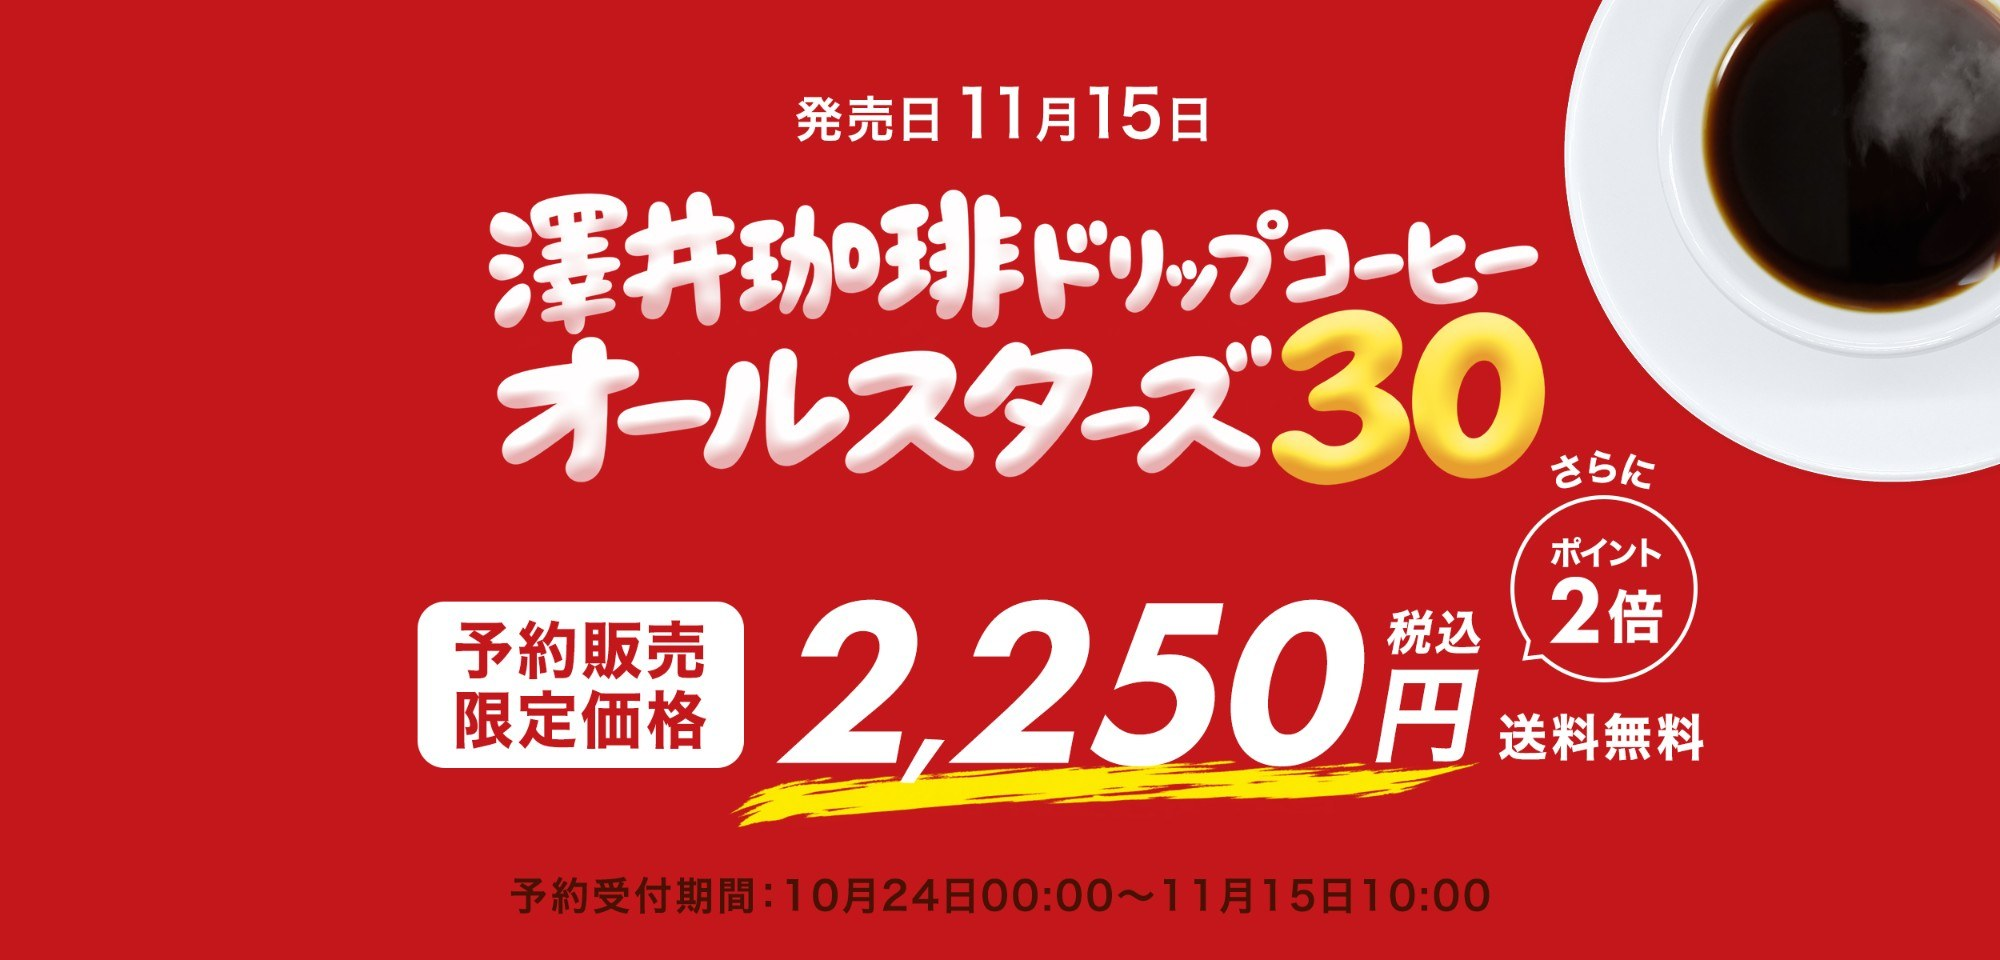
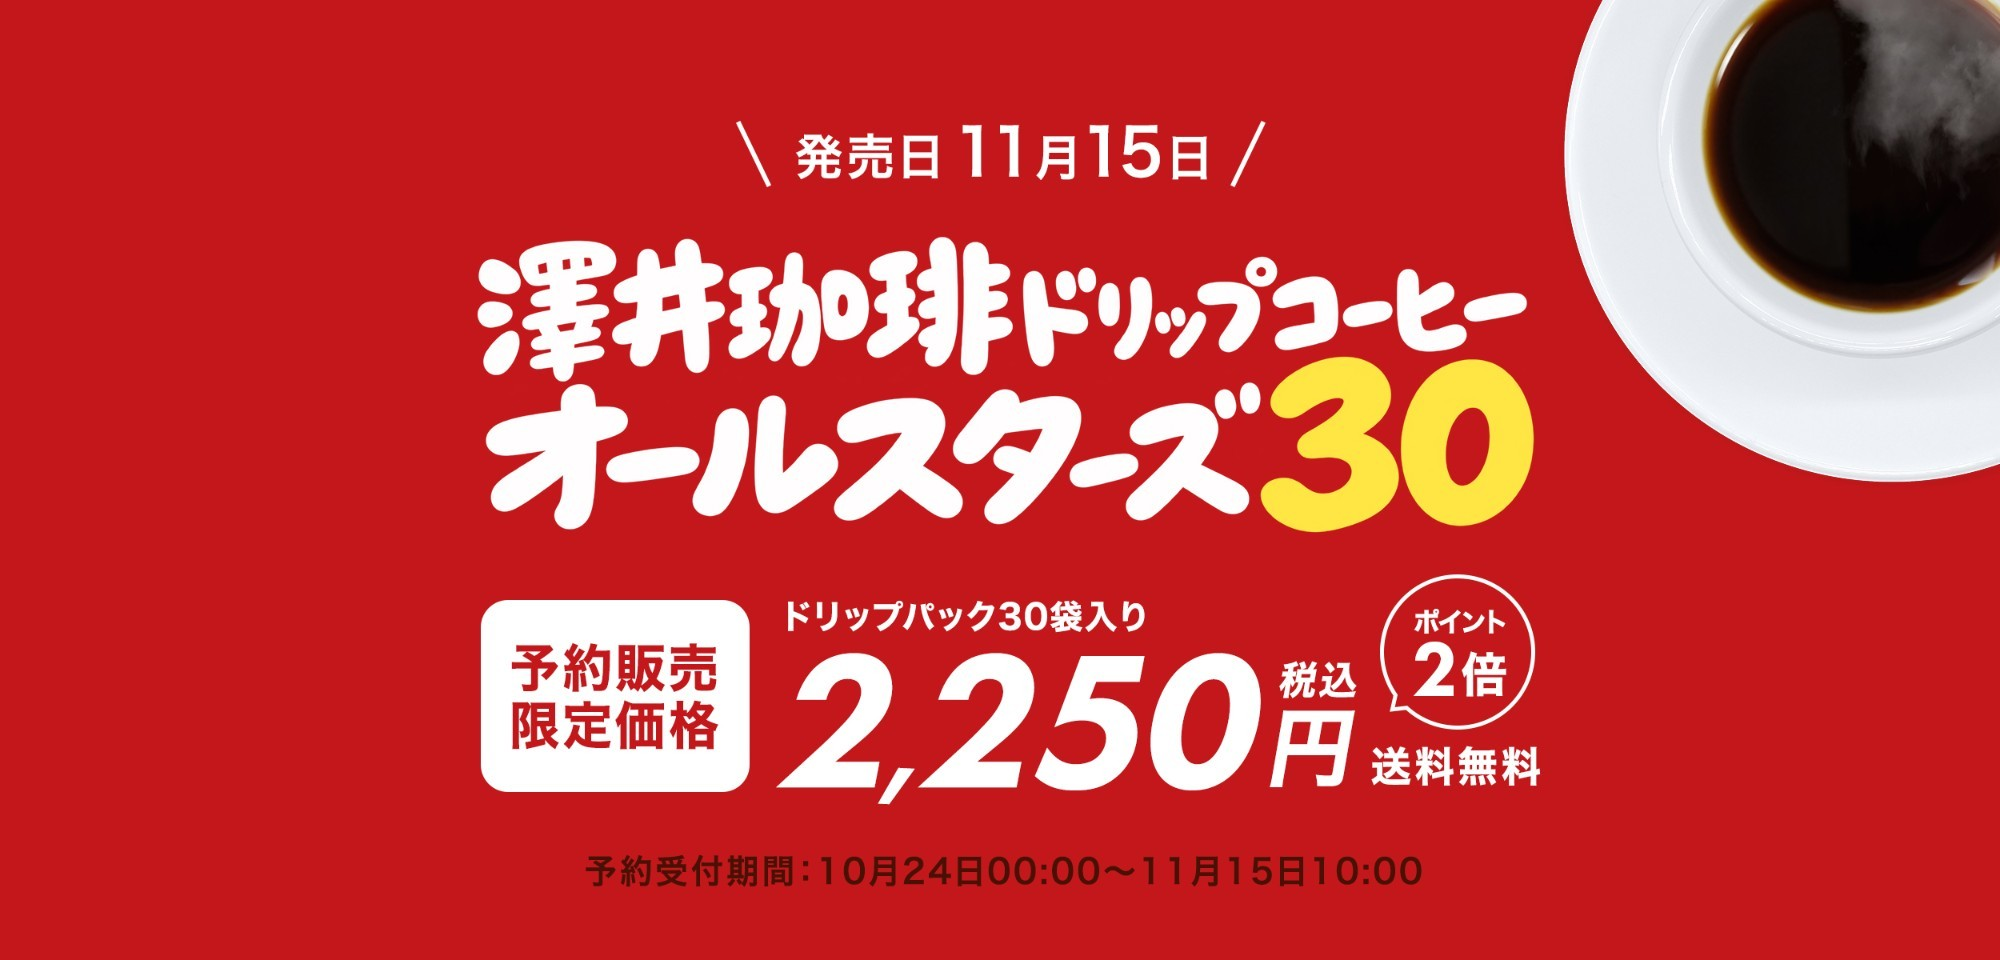
PCのFV画像を差し替え（ドリップパック30袋入り・ポイント2倍入り）

Changed region(s): [[0.186, 0.0938, 0.868, 0.9688]]

diff --git a/index.html b/index.html
@@ -463,7 +463,7 @@ button{font:inherit;cursor:pointer;border:0;background:none;color:inherit}
 <h1 class="vh" id="top">澤井珈琲ドリップコーヒー オールスターズ30｜予約販売限定価格2,250円（税込）送料無料</h1>
 <section class="fv-img">
   <div class="fv-img-in">
-    <img src="img/fv-pc.jpg" width="2000" height="960" alt="澤井珈琲ドリップコーヒー オールスターズ30　発売日11月15日　予約販売限定価格 2,250円（税込）送料無料　さらにポイント2倍　予約受付期間：10月24日00:00〜11月15日10:00">
+    <img src="img/fv-pc.jpg" width="2000" height="960" alt="澤井珈琲ドリップコーヒー オールスターズ30　発売日11月15日　ドリップパック30袋入り　予約販売限定価格 2,250円（税込）送料無料　ポイント2倍　予約受付期間：10月24日00:00〜11月15日10:00">
     <!-- 左の2列：ドリップバッグが縦に流れる（中身はJSで30種を入れる） -->
     <div class="fv-col c1" aria-hidden="true"><div class="fv-track" id="fvTrack1"></div></div>
     <div class="fv-col c2" aria-hidden="true"><div class="fv-track" id="fvTrack2"></div></div>

diff --git a/README.md b/README.md
@@ -13,7 +13,7 @@
 - 数字・英字：Futura（Mac・iPhone）。文章中の数字（例：見出しの「30袋」）もFuturaで表示。Futuraがない環境（Windows・Android）は、Futuraに近いWebフォント Jost → Helvetica の順で表示。`:root` の `--num` で一括変更できます
 
 ## 構成
-0. **PCのFVは画像（仮）＋流れるドリップバッグ**：背景は `img/fv-pc.jpg`（2000×960。発売日11月15日／オールスターズ30／予約販売限定価格2,250円 税込 送料無料／さらにポイント2倍／予約受付期間）。左の2列（画像の x=45〜175・199〜328 の位置）に30種のドリップバッグを縦に流す（左列は上へ、右列は下へ。写真のない銘柄はイラスト）。画像を差し替えるときは同じファイル名で上書き（列の位置を変える場合は `.fv-col` の left / width）。スマホ（768px以下）は動くFVを表示
+0. **PCのFVは画像（仮）＋流れるドリップバッグ**：背景は `img/fv-pc.jpg`（現在は2000×960。元データは横2500pxで作成済み。2500pxに差し替える場合も同じファイル名で上書きすればOK（列の位置は％指定なのでそのまま合う）。発売日11月15日／オールスターズ30／予約販売限定価格2,250円 税込 送料無料／さらにポイント2倍／予約受付期間）。左の2列（画像の x=45〜175・199〜328 の位置）に30種のドリップバッグを縦に流す（左列は上へ、右列は下へ。写真のない銘柄はイラスト）。画像を差し替えるときは同じファイル名で上書き（列の位置を変える場合は `.fv-col` の left / width）。スマホ（768px以下）は動くFVを表示
 
 1. FV（全面赤。中身はPCで幅900pxほどの中央にまとめ、袋が画面端で切れない／スマホは中央揃え）：左に「0→30」のカウントアップ＋見出し、右にパッケージ写真の袋が1袋ずつ福袋の箱（白地に赤の水玉・金のリボンとちょうちょ結び・赤丸の「福」）に落ちてくる。箱の左下には湯気がゆらゆら立つコーヒーカップのイラスト（入るたびに箱がぽよんと弾む）。30袋そろうと箱がぶるぶる震え、フタが飛んで光の輪＋紙吹雪とともに「パーン！」。写真のある15袋が箱に刺さったまま扇形に飛び出して止まる。箱をタップするともう一度最初から再生
 3. 大きな「30 DAYS, 30 COFFEES!」（1文字ずつ跳ねて出てくる）＋メッセージ「同じ一杯は、ひとつもない。」
